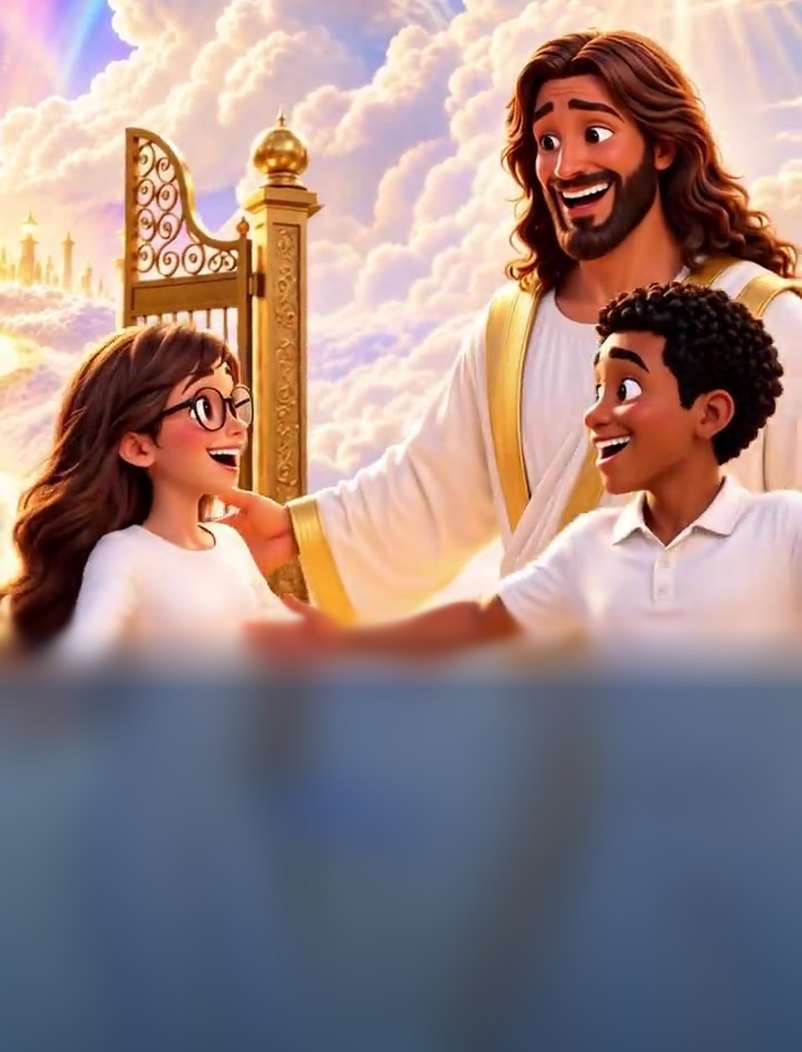
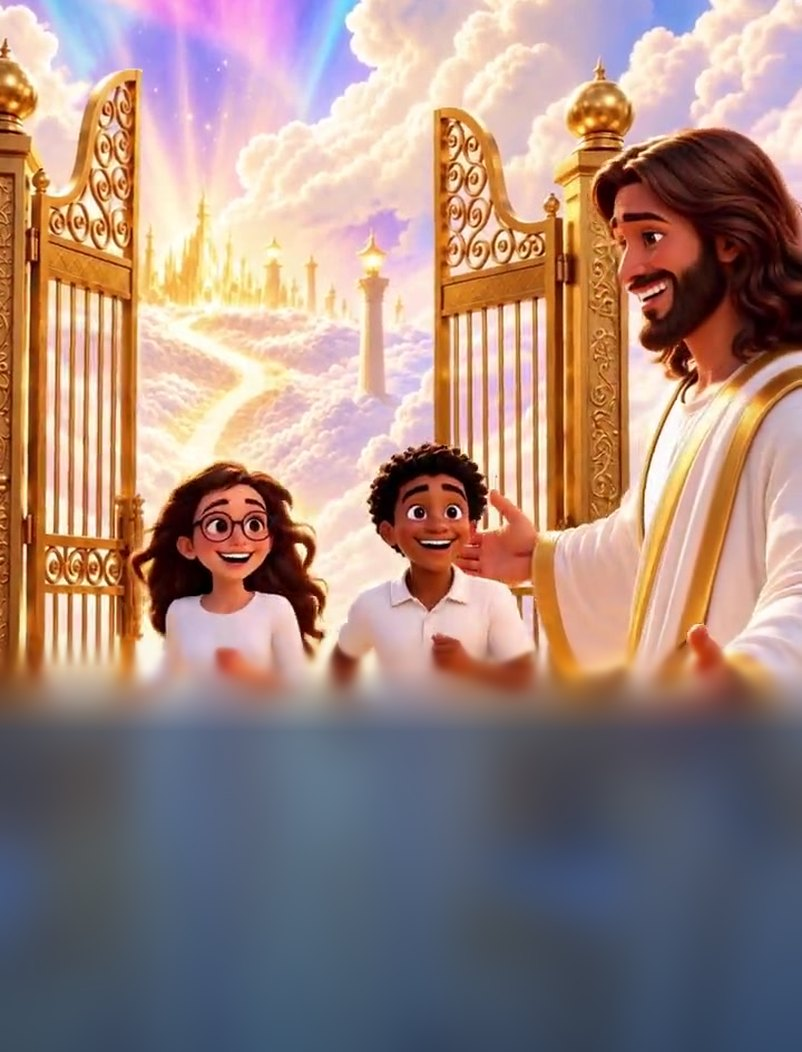
Tract: new-earth panel, kids running to Jesus, merged A-B-C + prayer, solid colour cards
Claude-Session: https://claude.ai/code/session_018ybeG9ZsRbCjgqasvbQwyc

diff --git a/tract.html b/tract.html
@@ -78,10 +78,12 @@ html,body{margin:0;background:#e9e7ef;color:var(--ink);font-family:var(--body)}
 .cover .tag{display:inline-block;margin:.12in 0 0;padding:.05in .16in;border-radius:999px;background:var(--gold);color:#2B2233;font:800 9pt var(--display)}
 
 /* text panels (back, A-B-C, prayer) */
-.sheetcard{position:absolute;inset:.12in;background:rgba(255,250,240,.9);border-radius:.13in;padding:.3in .28in;display:flex;flex-direction:column;justify-content:center}
-.blurbg{position:absolute;inset:0;background-size:cover;background-position:center}
+.sheetcard{position:absolute;inset:.12in;background:#fff7ec;border-radius:.13in;padding:.3in .28in;display:flex;flex-direction:column;justify-content:center}
 .sheetcard h2{margin:0 0 .08in;font:900 15pt/1.15 var(--display);color:var(--orange)}
 .sky .sheetcard h2{color:var(--sky)}
+.sky .sheetcard{background:#eef5fd}.orange .sheetcard{background:#fdf1e4}
+.abc{padding:.24in .24in}.abc h2{font-size:14pt}.abc .intro{margin-bottom:.1in}.abc .step{margin-bottom:.08in;font-size:9.2pt}
+.abc h3{margin:.08in 0 .06in;font:900 11.5pt/1.15 var(--display);color:var(--orange)}.abc .prayer{font-size:9.4pt;padding:.11in .13in;background:#fbe0c2}.abc .small{margin-top:.08in}
 .sheetcard .intro{margin:0 0 .14in;font:400 9pt/1.35 var(--body);color:var(--muted)}
 .step{display:flex;gap:.1in;align-items:flex-start;margin:0 0 .12in;font:400 9.6pt/1.35 var(--body)}
 .step b.k{flex:none;width:.3in;height:.3in;border-radius:.07in;background:var(--orange);color:#fff;font:900 11pt/.3in var(--display);text-align:center}
@@ -131,7 +133,7 @@ html,body{margin:0;background:#e9e7ef;color:var(--ink);font-family:var(--body)}
   // Picture rule (Johnny): never use cross-clip/cross-end where the message is "He took my place" (Chase turns away there).
   const ART = [['garden-end', 45, 'green'], ['rule-point', 40, 'green'], ['fruit-end', 32, 'purple'], ['exile-end', 45, 'purple'],
     ['test-2-end', 35, 'night'], ['locked-end', 42, 'night'], ['scrub-clip', 30, 'purple'], ['door-end', 35, 'orange'],
-    ['cross-kneel', 100, 'orange'], ['choice-end', 95, 'orange'], ['tomb-end', 60, 'sky'], ['gates-arrive', 75, 'sky']];
+    ['cross-kneel', 100, 'orange'], ['choice-end', 95, 'orange'], ['tomb-end', 60, 'sky'], ['gates-run', 55, 'sky'], ['new-earth-hands', 70, 'sky']];
   try {
     const langs = await get('content/languages.json');
     const sp = new URLSearchParams(location.search), q = sp.get('lang');
@@ -152,24 +154,23 @@ html,body{margin:0;background:#e9e7ef;color:var(--ink);font-family:var(--body)}
     // each panel: [colour class, inner html]
     const story = i => {
       const [img, y, col] = ART[i], [cap, ref] = tr.panels[i];
-      const hint = i === 3 ? tr.unfold : i === 11 ? tr.turn : '';
+      const hint = i === 3 ? tr.unfold : i === 11 ? tr.turn : i === 12 ? (tr.toabc || '') : '';
       const pic = `<img src="art/tract/${String(i + 1).padStart(2, '0')}.jpg" alt="">`;
       return [col, `<div class="fr" data-p="${i + 1}">${pic}` +
         `<div class="txt"><p class="no">${i + 1}</p><p class="cap">${esc(cap)}</p><p class="ref">${esc(ref)}</p>${hint ? `<p class="hint">${esc(hint)}</p>` : ''}</div></div>`];
     };
     const coverP = ['cover', `<div class="art"></div><div class="shade"></div><div class="words"><h1>${esc(cover.title)}</h1><span class="tag">${esc(tr.tag)}</span></div>`];
-    const backP = ['sky', `<div class="blurbg" style="background-image:url(art/tract/bg-gates-end.jpg)"></div><div class="sheetcard back"><h2>${esc(tr.home)}</h2><p class="intro">${esc(tr.free)}</p><div class="qr">${svg}</div>` +
+    const backP = ['sky', `<div class="sheetcard back"><h2>${esc(tr.home)}</h2><p class="intro">${esc(tr.free)}</p><div class="qr">${svg}</div>` +
       `<p class="u">${esc(link.replace(/^https:\/\//, '').replace(/\/$/, ''))}</p><div class="giver" id="giver"></div><p class="small" style="margin-top:.08in">${esc(tr.talk)}</p><p class="small" style="margin-top:.04in">${esc(tr.gift)}</p></div>`];
     const steps = P.steps.map(s => `<div class="step"><b class="k">${esc(s.key)}</b><span><b class="w">${esc(s.word)}</b> ${esc(s.rest)}</span></div>`).join('');
-    const abcP = ['orange', `<div class="blurbg" style="background-image:url(art/tract/bg-choice-end.jpg)"></div><div class="sheetcard"><h2>${esc(P.title)}</h2><p class="intro">${esc(tr.easy)}</p>${steps}<p class="small">${esc(P.ref)}</p></div>`];
-    const prayP = ['orange', `<div class="blurbg" style="background-image:url(art/tract/bg-clean.jpg)"></div><div class="sheetcard"><h2>${esc(tr.pray)}</h2><p class="prayer">${esc(P.prayer)}</p><p class="small">${esc(P.note)}</p></div>`];
-
+    const abcP = ['orange', `<div class="sheetcard abc"><h2>${esc(P.title)}</h2><p class="intro">${esc(tr.easy)}</p>${steps}` +
+      `<h3>${esc(tr.pray)}</h3><p class="prayer">${esc(P.prayer)}</p><p class="small">${esc(P.note)} · ${esc(P.ref)}</p></div>`];
     const side = (rows) => `<div class="sheet">${rows.map((row, r) => row.map((p, c) => {
       const [cls, html] = p[0], flip = p[1];
       return `<div class="cell ${cls} c${c} r${r}${flip ? ' flip' : ''}"><div class="pn">${html}</div></div>`;
     }).join('')).join('')}</div>`;
     const S = i => [story(i), false], U = i => [story(i), true];
-    const side1 = side([[[backP, false], [abcP, false], [prayP, false], [coverP, false]], [U(3), U(2), U(1), U(0)]]);
+    const side1 = side([[[backP, false], [abcP, false], S(12), [coverP, false]], [U(3), U(2), U(1), U(0)]]);
     const side2 = side([[S(4), S(5), S(6), S(7)], [S(8), S(9), S(10), S(11)]]);
     const sheets = document.getElementById('sheets');
     sheets.innerHTML = `<p class="label">Side 1 (cover side)</p>${side1}<p class="label">Side 2 (inside)</p>${side2}`;

diff --git a/ar/index.html b/ar/index.html
@@ -20,8 +20,8 @@
 <meta name="apple-mobile-web-app-status-bar-style" content="black-translucent">
 <meta name="theme-color" content="#2F7FD9">
 <link rel="icon" href="art/favicon-48.png" sizes="48x48">
-<link rel="stylesheet" href="fonts/fonts.css?v=20261017210801">
-<link rel="stylesheet" href="app.css?v=20261017210801">
+<link rel="stylesheet" href="fonts/fonts.css?v=20261017211711">
+<link rel="stylesheet" href="app.css?v=20261017211711">
 </head>
 <body>
 <main class="book" id="book"></main>
@@ -43,7 +43,7 @@
 </div>
 <div class="tip" id="tip" role="status" hidden></div>
 <div class="toast" id="toast" role="status" aria-live="polite"></div>
-<script src="app.js?v=20261017210801"></script>
+<script src="app.js?v=20261017211711"></script>
 <!-- Cloudflare Web Analytics (anonymous, no cookies) --><script defer src="https://static.cloudflareinsights.com/beacon.min.js" data-cf-beacon='{"token": "f07f476aee854a4f9d3679ffcecc1fa7"}'></script>
 </body>
 </html>

diff --git a/bn/index.html b/bn/index.html
@@ -20,8 +20,8 @@
 <meta name="apple-mobile-web-app-status-bar-style" content="black-translucent">
 <meta name="theme-color" content="#2F7FD9">
 <link rel="icon" href="art/favicon-48.png" sizes="48x48">
-<link rel="stylesheet" href="fonts/fonts.css?v=20261017210801">
-<link rel="stylesheet" href="app.css?v=20261017210801">
+<link rel="stylesheet" href="fonts/fonts.css?v=20261017211711">
+<link rel="stylesheet" href="app.css?v=20261017211711">
 </head>
 <body>
 <main class="book" id="book"></main>
@@ -43,7 +43,7 @@
 </div>
 <div class="tip" id="tip" role="status" hidden></div>
 <div class="toast" id="toast" role="status" aria-live="polite"></div>
-<script src="app.js?v=20261017210801"></script>
+<script src="app.js?v=20261017211711"></script>
 <!-- Cloudflare Web Analytics (anonymous, no cookies) --><script defer src="https://static.cloudflareinsights.com/beacon.min.js" data-cf-beacon='{"token": "f07f476aee854a4f9d3679ffcecc1fa7"}'></script>
 </body>
 </html>

diff --git a/da/index.html b/da/index.html
@@ -20,8 +20,8 @@
 <meta name="apple-mobile-web-app-status-bar-style" content="black-translucent">
 <meta name="theme-color" content="#2F7FD9">
 <link rel="icon" href="art/favicon-48.png" sizes="48x48">
-<link rel="stylesheet" href="fonts/fonts.css?v=20261017210801">
-<link rel="stylesheet" href="app.css?v=20261017210801">
+<link rel="stylesheet" href="fonts/fonts.css?v=20261017211711">
+<link rel="stylesheet" href="app.css?v=20261017211711">
 </head>
 <body>
 <main class="book" id="book"></main>
@@ -43,7 +43,7 @@
 </div>
 <div class="tip" id="tip" role="status" hidden></div>
 <div class="toast" id="toast" role="status" aria-live="polite"></div>
-<script src="app.js?v=20261017210801"></script>
+<script src="app.js?v=20261017211711"></script>
 <!-- Cloudflare Web Analytics (anonymous, no cookies) --><script defer src="https://static.cloudflareinsights.com/beacon.min.js" data-cf-beacon='{"token": "f07f476aee854a4f9d3679ffcecc1fa7"}'></script>
 </body>
 </html>

diff --git a/de/index.html b/de/index.html
@@ -20,8 +20,8 @@
 <meta name="apple-mobile-web-app-status-bar-style" content="black-translucent">
 <meta name="theme-color" content="#2F7FD9">
 <link rel="icon" href="art/favicon-48.png" sizes="48x48">
-<link rel="stylesheet" href="fonts/fonts.css?v=20261017210801">
-<link rel="stylesheet" href="app.css?v=20261017210801">
+<link rel="stylesheet" href="fonts/fonts.css?v=20261017211711">
+<link rel="stylesheet" href="app.css?v=20261017211711">
 </head>
 <body>
 <main class="book" id="book"></main>
@@ -43,7 +43,7 @@
 </div>
 <div class="tip" id="tip" role="status" hidden></div>
 <div class="toast" id="toast" role="status" aria-live="polite"></div>
-<script src="app.js?v=20261017210801"></script>
+<script src="app.js?v=20261017211711"></script>
 <!-- Cloudflare Web Analytics (anonymous, no cookies) --><script defer src="https://static.cloudflareinsights.com/beacon.min.js" data-cf-beacon='{"token": "f07f476aee854a4f9d3679ffcecc1fa7"}'></script>
 </body>
 </html>

diff --git a/en/index.html b/en/index.html
@@ -20,8 +20,8 @@
 <meta name="apple-mobile-web-app-status-bar-style" content="black-translucent">
 <meta name="theme-color" content="#2F7FD9">
 <link rel="icon" href="art/favicon-48.png" sizes="48x48">
-<link rel="stylesheet" href="fonts/fonts.css?v=20261017210801">
-<link rel="stylesheet" href="app.css?v=20261017210801">
+<link rel="stylesheet" href="fonts/fonts.css?v=20261017211711">
+<link rel="stylesheet" href="app.css?v=20261017211711">
 </head>
 <body>
 <main class="book" id="book"></main>
@@ -43,7 +43,7 @@
 </div>
 <div class="tip" id="tip" role="status" hidden></div>
 <div class="toast" id="toast" role="status" aria-live="polite"></div>
-<script src="app.js?v=20261017210801"></script>
+<script src="app.js?v=20261017211711"></script>
 <!-- Cloudflare Web Analytics (anonymous, no cookies) --><script defer src="https://static.cloudflareinsights.com/beacon.min.js" data-cf-beacon='{"token": "f07f476aee854a4f9d3679ffcecc1fa7"}'></script>
 </body>
 </html>

diff --git a/es/index.html b/es/index.html
@@ -20,8 +20,8 @@
 <meta name="apple-mobile-web-app-status-bar-style" content="black-translucent">
 <meta name="theme-color" content="#2F7FD9">
 <link rel="icon" href="art/favicon-48.png" sizes="48x48">
-<link rel="stylesheet" href="fonts/fonts.css?v=20261017210801">
-<link rel="stylesheet" href="app.css?v=20261017210801">
+<link rel="stylesheet" href="fonts/fonts.css?v=20261017211711">
+<link rel="stylesheet" href="app.css?v=20261017211711">
 </head>
 <body>
 <main class="book" id="book"></main>
@@ -43,7 +43,7 @@
 </div>
 <div class="tip" id="tip" role="status" hidden></div>
 <div class="toast" id="toast" role="status" aria-live="polite"></div>
-<script src="app.js?v=20261017210801"></script>
+<script src="app.js?v=20261017211711"></script>
 <!-- Cloudflare Web Analytics (anonymous, no cookies) --><script defer src="https://static.cloudflareinsights.com/beacon.min.js" data-cf-beacon='{"token": "f07f476aee854a4f9d3679ffcecc1fa7"}'></script>
 </body>
 </html>

diff --git a/fr/index.html b/fr/index.html
@@ -20,8 +20,8 @@
 <meta name="apple-mobile-web-app-status-bar-style" content="black-translucent">
 <meta name="theme-color" content="#2F7FD9">
 <link rel="icon" href="art/favicon-48.png" sizes="48x48">
-<link rel="stylesheet" href="fonts/fonts.css?v=20261017210801">
-<link rel="stylesheet" href="app.css?v=20261017210801">
+<link rel="stylesheet" href="fonts/fonts.css?v=20261017211711">
+<link rel="stylesheet" href="app.css?v=20261017211711">
 </head>
 <body>
 <main class="book" id="book"></main>
@@ -43,7 +43,7 @@
 </div>
 <div class="tip" id="tip" role="status" hidden></div>
 <div class="toast" id="toast" role="status" aria-live="polite"></div>
-<script src="app.js?v=20261017210801"></script>
+<script src="app.js?v=20261017211711"></script>
 <!-- Cloudflare Web Analytics (anonymous, no cookies) --><script defer src="https://static.cloudflareinsights.com/beacon.min.js" data-cf-beacon='{"token": "f07f476aee854a4f9d3679ffcecc1fa7"}'></script>
 </body>
 </html>

diff --git a/he/index.html b/he/index.html
@@ -20,8 +20,8 @@
 <meta name="apple-mobile-web-app-status-bar-style" content="black-translucent">
 <meta name="theme-color" content="#2F7FD9">
 <link rel="icon" href="art/favicon-48.png" sizes="48x48">
-<link rel="stylesheet" href="fonts/fonts.css?v=20261017210801">
-<link rel="stylesheet" href="app.css?v=20261017210801">
+<link rel="stylesheet" href="fonts/fonts.css?v=20261017211711">
+<link rel="stylesheet" href="app.css?v=20261017211711">
 </head>
 <body>
 <main class="book" id="book"></main>
@@ -43,7 +43,7 @@
 </div>
 <div class="tip" id="tip" role="status" hidden></div>
 <div class="toast" id="toast" role="status" aria-live="polite"></div>
-<script src="app.js?v=20261017210801"></script>
+<script src="app.js?v=20261017211711"></script>
 <!-- Cloudflare Web Analytics (anonymous, no cookies) --><script defer src="https://static.cloudflareinsights.com/beacon.min.js" data-cf-beacon='{"token": "f07f476aee854a4f9d3679ffcecc1fa7"}'></script>
 </body>
 </html>

diff --git a/hi/index.html b/hi/index.html
@@ -20,8 +20,8 @@
 <meta name="apple-mobile-web-app-status-bar-style" content="black-translucent">
 <meta name="theme-color" content="#2F7FD9">
 <link rel="icon" href="art/favicon-48.png" sizes="48x48">
-<link rel="stylesheet" href="fonts/fonts.css?v=20261017210801">
-<link rel="stylesheet" href="app.css?v=20261017210801">
+<link rel="stylesheet" href="fonts/fonts.css?v=20261017211711">
+<link rel="stylesheet" href="app.css?v=20261017211711">
 </head>
 <body>
 <main class="book" id="book"></main>
@@ -43,7 +43,7 @@
 </div>
 <div class="tip" id="tip" role="status" hidden></div>
 <div class="toast" id="toast" role="status" aria-live="polite"></div>
-<script src="app.js?v=20261017210801"></script>
+<script src="app.js?v=20261017211711"></script>
 <!-- Cloudflare Web Analytics (anonymous, no cookies) --><script defer src="https://static.cloudflareinsights.com/beacon.min.js" data-cf-beacon='{"token": "f07f476aee854a4f9d3679ffcecc1fa7"}'></script>
 </body>
 </html>

diff --git a/index.html b/index.html
@@ -20,8 +20,8 @@
 <meta name="apple-mobile-web-app-status-bar-style" content="black-translucent">
 <meta name="theme-color" content="#2F7FD9">
 <link rel="icon" href="art/favicon-48.png" sizes="48x48">
-<link rel="stylesheet" href="fonts/fonts.css?v=20261017210801">
-<link rel="stylesheet" href="app.css?v=20261017210801">
+<link rel="stylesheet" href="fonts/fonts.css?v=20261017211711">
+<link rel="stylesheet" href="app.css?v=20261017211711">
 </head>
 <body>
 <main class="book" id="book"></main>
@@ -43,7 +43,7 @@
 </div>
 <div class="tip" id="tip" role="status" hidden></div>
 <div class="toast" id="toast" role="status" aria-live="polite"></div>
-<script src="app.js?v=20261017210801"></script>
+<script src="app.js?v=20261017211711"></script>
 <!-- Cloudflare Web Analytics (anonymous, no cookies) --><script defer src="https://static.cloudflareinsights.com/beacon.min.js" data-cf-beacon='{"token": "f07f476aee854a4f9d3679ffcecc1fa7"}'></script>
 </body>
 </html>

diff --git a/ja/index.html b/ja/index.html
@@ -20,8 +20,8 @@
 <meta name="apple-mobile-web-app-status-bar-style" content="black-translucent">
 <meta name="theme-color" content="#2F7FD9">
 <link rel="icon" href="art/favicon-48.png" sizes="48x48">
-<link rel="stylesheet" href="fonts/fonts.css?v=20261017210801">
-<link rel="stylesheet" href="app.css?v=20261017210801">
+<link rel="stylesheet" href="fonts/fonts.css?v=20261017211711">
+<link rel="stylesheet" href="app.css?v=20261017211711">
 </head>
 <body>
 <main class="book" id="book"></main>
@@ -43,7 +43,7 @@
 </div>
 <div class="tip" id="tip" role="status" hidden></div>
 <div class="toast" id="toast" role="status" aria-live="polite"></div>
-<script src="app.js?v=20261017210801"></script>
+<script src="app.js?v=20261017211711"></script>
 <!-- Cloudflare Web Analytics (anonymous, no cookies) --><script defer src="https://static.cloudflareinsights.com/beacon.min.js" data-cf-beacon='{"token": "f07f476aee854a4f9d3679ffcecc1fa7"}'></script>
 </body>
 </html>
